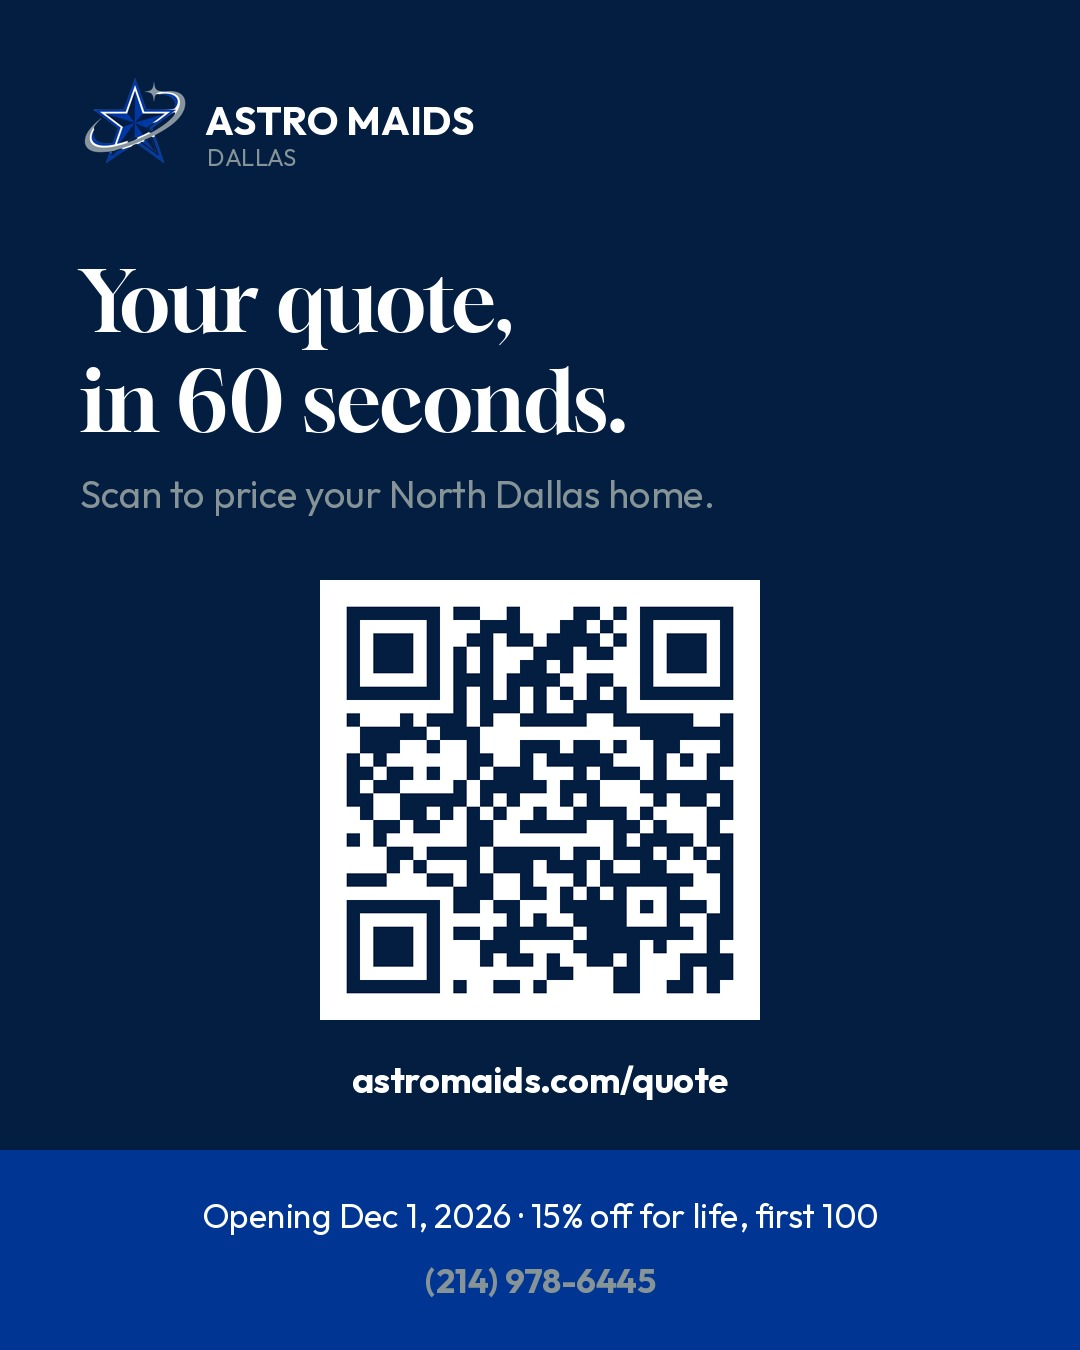
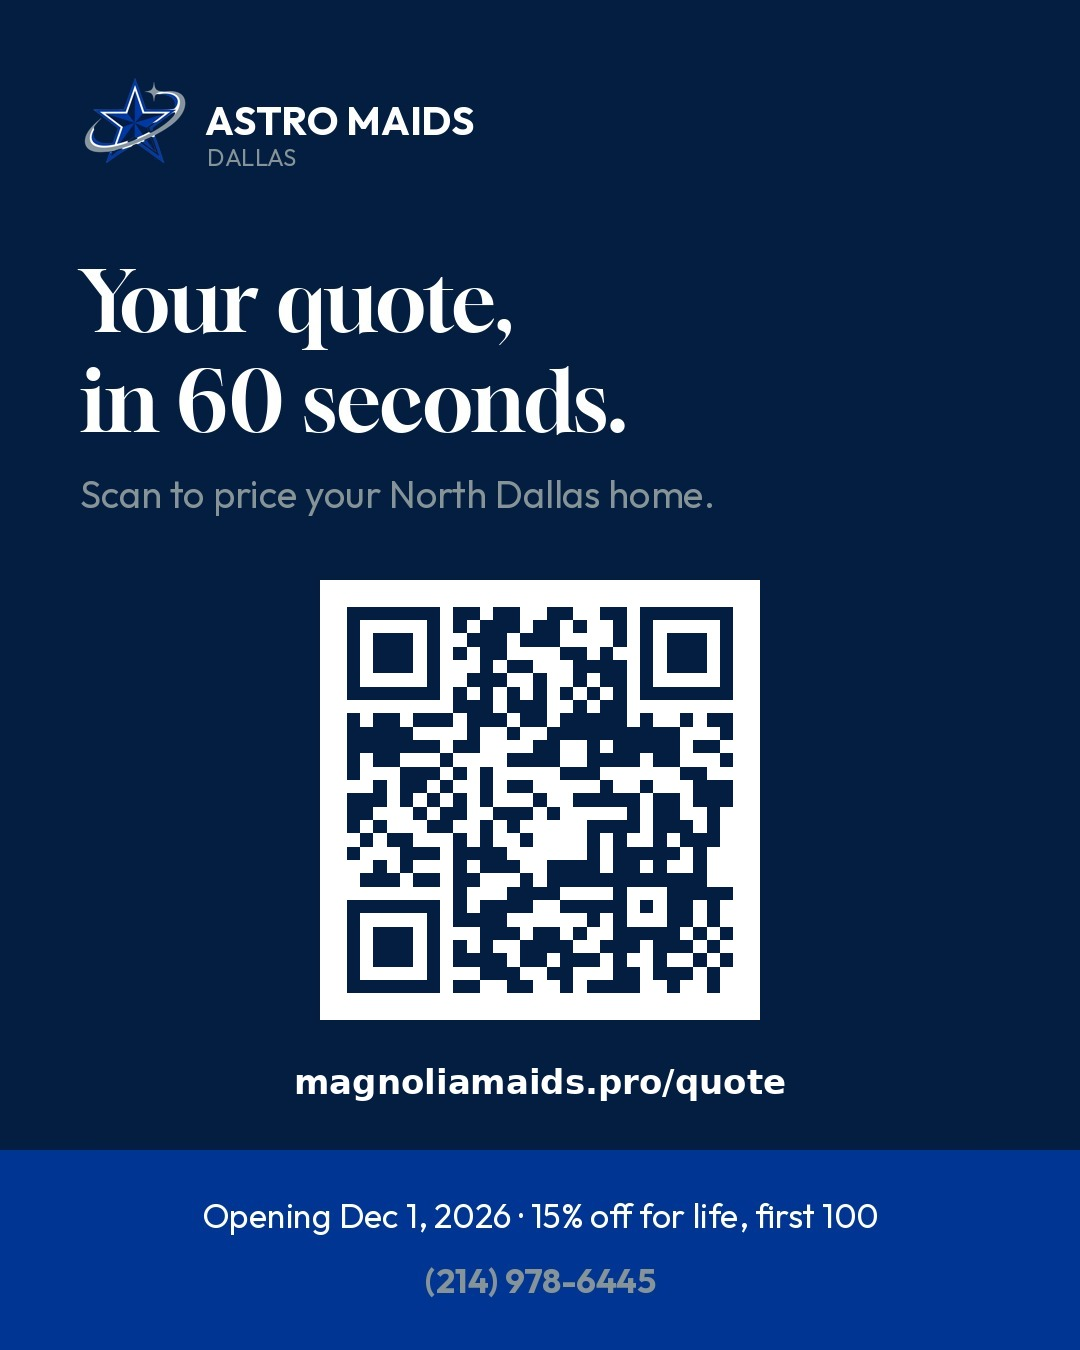
Point Instagram captions and QR post to magnoliamaids.pro

Changed region(s): [[0.3056, 0.4356, 0.7028, 0.7467], [0.275, 0.7778, 0.7333, 0.8089]]

diff --git a/src/components/admin/InstagramPublisher.tsx b/src/components/admin/InstagramPublisher.tsx
@@ -11,14 +11,14 @@ const PRESETS = [
     label: "First post — Dallas launch",
     image: "/social/astro-maids-instagram-post-dallas.jpg",
     caption:
-      "Luxury home cleaning is coming to North Dallas. ✨ Astro Maids — Dallas opens December 1, 2026, and our first 100 clients get 15% off for life. Get your free quote at astromaids.com or call (214) 978-6445.\n\n#DallasTX #NorthDallas #ParkCities #HouseCleaning #MaidService #AstroMaids",
+      "Luxury home cleaning is coming to North Dallas. ✨ Astro Maids — Dallas opens December 1, 2026, and our first 100 clients get 15% off for life. Get your free quote at magnoliamaids.pro or call (214) 978-6445.\n\n#DallasTX #NorthDallas #ParkCities #HouseCleaning #MaidService #AstroMaids",
   },
   {
     key: "qr",
     label: "Follow-up — quote QR code",
     image: "/social/astro-maids-instagram-quote-qr-post.jpg",
     caption:
-      "Curious what a spotless home costs? 📱 Scan the code or visit astromaids.com/quote to price your North Dallas home in about a minute — no scheduling required. Founding clients who book before we open December 1, 2026 get 15% off for life (first 100 only). Questions? Call or text (214) 978-6445.\n\n#DallasTX #NorthDallas #ParkCities #Plano #Frisco #HouseCleaning #AstroMaids",
+      "Curious what a spotless home costs? 📱 Scan the code or visit magnoliamaids.pro/quote to price your North Dallas home in about a minute — no scheduling required. Founding clients who book before we open December 1, 2026 get 15% off for life (first 100 only). Questions? Call or text (214) 978-6445.\n\n#DallasTX #NorthDallas #ParkCities #Plano #Frisco #HouseCleaning #AstroMaids",
   },
 ] as const;
 
